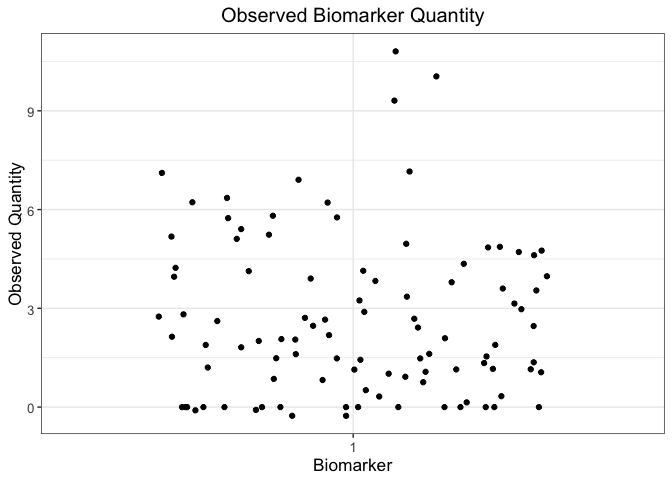
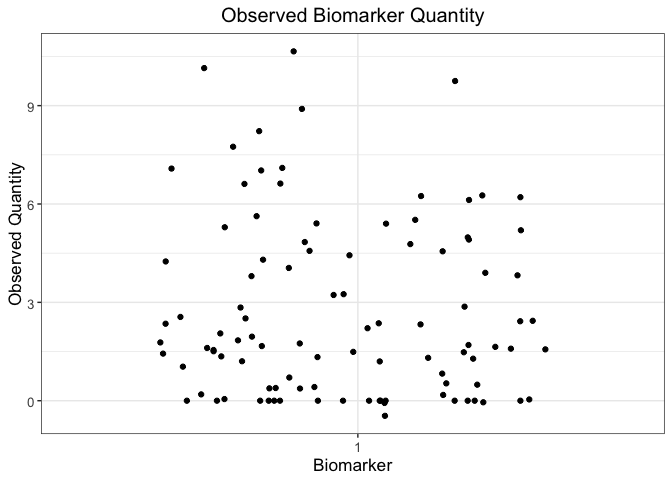
Re-knit

diff --git a/README.md b/README.md
@@ -42,47 +42,12 @@ Load necessary packages:
 devtools::install_github("AMenezes97/serosim")
 ```
 
-    ## pillar       (1.8.1 -> 1.9.0 ) [CRAN]
-    ## vctrs        (0.6.0 -> 0.6.1 ) [CRAN]
-    ## cli          (3.6.0 -> 3.6.1 ) [CRAN]
-    ## selectr      (NA    -> 0.4-2 ) [CRAN]
-    ## rmarkdown    (2.20  -> 2.21  ) [CRAN]
-    ## rematch      (NA    -> 1.0.1 ) [CRAN]
-    ## cellranger   (NA    -> 1.1.0 ) [CRAN]
-    ## timechange   (NA    -> 0.2.0 ) [CRAN]
-    ## forcats      (NA    -> 1.0.0 ) [CRAN]
-    ## uuid         (NA    -> 1.1-0 ) [CRAN]
-    ## ids          (NA    -> 1.0.1 ) [CRAN]
-    ## googledrive  (NA    -> 2.1.0 ) [CRAN]
-    ## gargle       (NA    -> 1.3.0 ) [CRAN]
-    ## DBI          (NA    -> 1.1.3 ) [CRAN]
-    ## blob         (NA    -> 1.2.4 ) [CRAN]
-    ## rvest        (NA    -> 1.0.3 ) [CRAN]
-    ## reprex       (NA    -> 2.0.2 ) [CRAN]
-    ## readxl       (NA    -> 1.4.2 ) [CRAN]
-    ## modelr       (NA    -> 0.1.11) [CRAN]
-    ## lubridate    (NA    -> 1.9.2 ) [CRAN]
-    ## haven        (NA    -> 2.5.2 ) [CRAN]
-    ## googleshe... (NA    -> 1.1.0 ) [CRAN]
-    ## dtplyr       (NA    -> 1.3.1 ) [CRAN]
-    ## dbplyr       (NA    -> 2.3.2 ) [CRAN]
-    ## conflicted   (NA    -> 1.2.0 ) [CRAN]
-    ## tidyverse    (NA    -> 2.0.0 ) [CRAN]
-    ## patchwork    (NA    -> 1.1.2 ) [CRAN]
-    ## deSolve      (NA    -> 1.35  ) [CRAN]
     ## 
-    ##   There is a binary version available but the source version is later:
-    ##           binary source needs_compilation
-    ## rmarkdown   2.20   2.21             FALSE
-    ## 
-    ## 
-    ## The downloaded binary packages are in
-    ##  /var/folders/q8/2nt_5tqj7yj_rmmxlknjr2sm0000gr/T//RtmpExU9CM/downloaded_packages
     ## ── R CMD build ─────────────────────────────────────────────────────────────────
-    ##      checking for file ‘/private/var/folders/q8/2nt_5tqj7yj_rmmxlknjr2sm0000gr/T/RtmpExU9CM/remotes11fa1dfe6c69/AMenezes97-serosim-9500829/DESCRIPTION’ ...  ✔  checking for file ‘/private/var/folders/q8/2nt_5tqj7yj_rmmxlknjr2sm0000gr/T/RtmpExU9CM/remotes11fa1dfe6c69/AMenezes97-serosim-9500829/DESCRIPTION’
-    ##   ─  preparing ‘serosim’: (1.1s)
+    ##      checking for file ‘/private/var/folders/q8/2nt_5tqj7yj_rmmxlknjr2sm0000gr/T/RtmpFC4WGo/remotes14a0510b206c/AMenezes97-serosim-f8bf76c/DESCRIPTION’ ...  ✔  checking for file ‘/private/var/folders/q8/2nt_5tqj7yj_rmmxlknjr2sm0000gr/T/RtmpFC4WGo/remotes14a0510b206c/AMenezes97-serosim-f8bf76c/DESCRIPTION’ (474ms)
+    ##   ─  preparing ‘serosim’: (1s)
     ##      checking DESCRIPTION meta-information ...  ✔  checking DESCRIPTION meta-information
-    ##   ─  checking for LF line-endings in source and make files and shell scripts (1.1s)
+    ##   ─  checking for LF line-endings in source and make files and shell scripts (1.2s)
     ##   ─  checking for empty or unneeded directories
     ##   ─  building ‘serosim_0.0.0.9000.tar.gz’
     ##      
@@ -142,10 +107,10 @@ summary(demography)
 
     ##        i              birth           removal        times       
     ##  Min.   :  1.00   Min.   :  1.00   Min.   :121   Min.   :  1.00  
-    ##  1st Qu.: 25.75   1st Qu.: 40.75   1st Qu.:121   1st Qu.: 30.75  
-    ##  Median : 50.50   Median : 59.00   Median :121   Median : 60.50  
-    ##  Mean   : 50.50   Mean   : 62.41   Mean   :121   Mean   : 60.50  
-    ##  3rd Qu.: 75.25   3rd Qu.: 92.00   3rd Qu.:121   3rd Qu.: 90.25  
+    ##  1st Qu.: 25.75   1st Qu.: 31.00   1st Qu.:121   1st Qu.: 30.75  
+    ##  Median : 50.50   Median : 53.50   Median :121   Median : 60.50  
+    ##  Mean   : 50.50   Mean   : 56.74   Mean   :121   Mean   : 60.50  
+    ##  3rd Qu.: 75.25   3rd Qu.: 82.00   3rd Qu.:121   3rd Qu.: 90.25  
     ##  Max.   :100.00   Max.   :118.00   Max.   :121   Max.   :120.00
 
 # 1.3 Exposure to biomarker mapping
@@ -441,12 +406,12 @@ head(res$kinetics_parameters)
     ## # A tibble: 6 × 7
     ##       i     t     x     b name    value realized_value
     ##   <int> <dbl> <dbl> <dbl> <chr>   <dbl>          <dbl>
-    ## 1     1    17     2     1 boost 2.58           2.58   
-    ## 2     1    17     2     1 wane  0.00229        0.00229
-    ## 3     1   104     1     1 boost 2.67           2.67   
-    ## 4     1   104     1     1 wane  0.00401        0.00401
-    ## 5     2    13     2     1 boost 1.74           1.74   
-    ## 6     2    13     2     1 wane  0.00166        0.00166
+    ## 1     1    30     2     1 boost 1.88           1.88   
+    ## 2     1    30     2     1 wane  0.00106        0.00106
+    ## 3     1   107     1     1 boost 2.93           2.93   
+    ## 4     1   107     1     1 wane  0.00392        0.00392
+    ## 5     2   116     2     1 boost 0.883          0.883  
+    ## 6     2   116     2     1 wane  0.00130        0.00130
 
 ``` r
 ## Combine plots as seen in paper 
